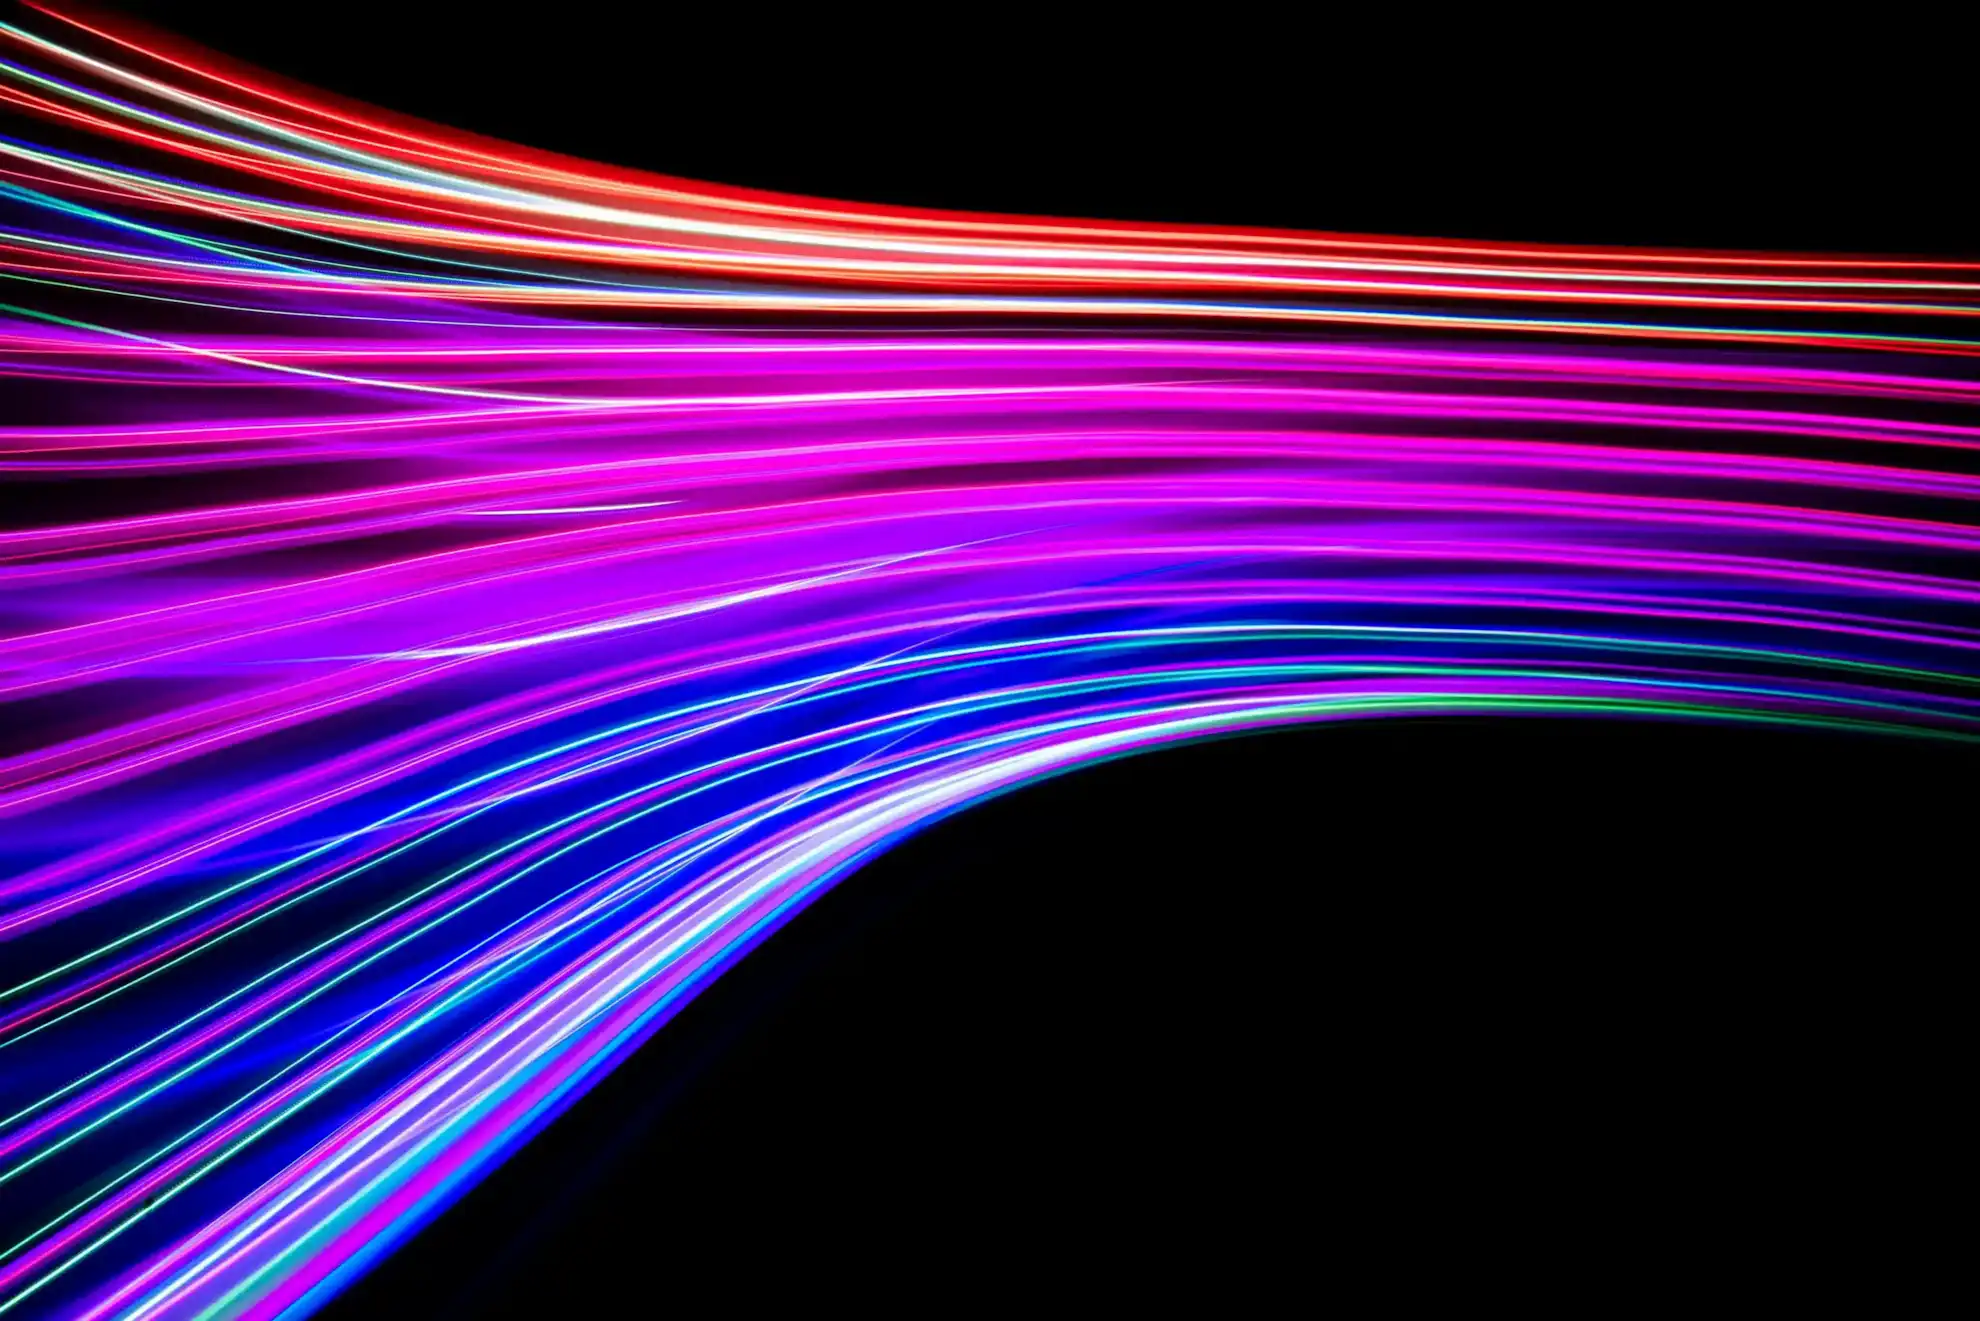
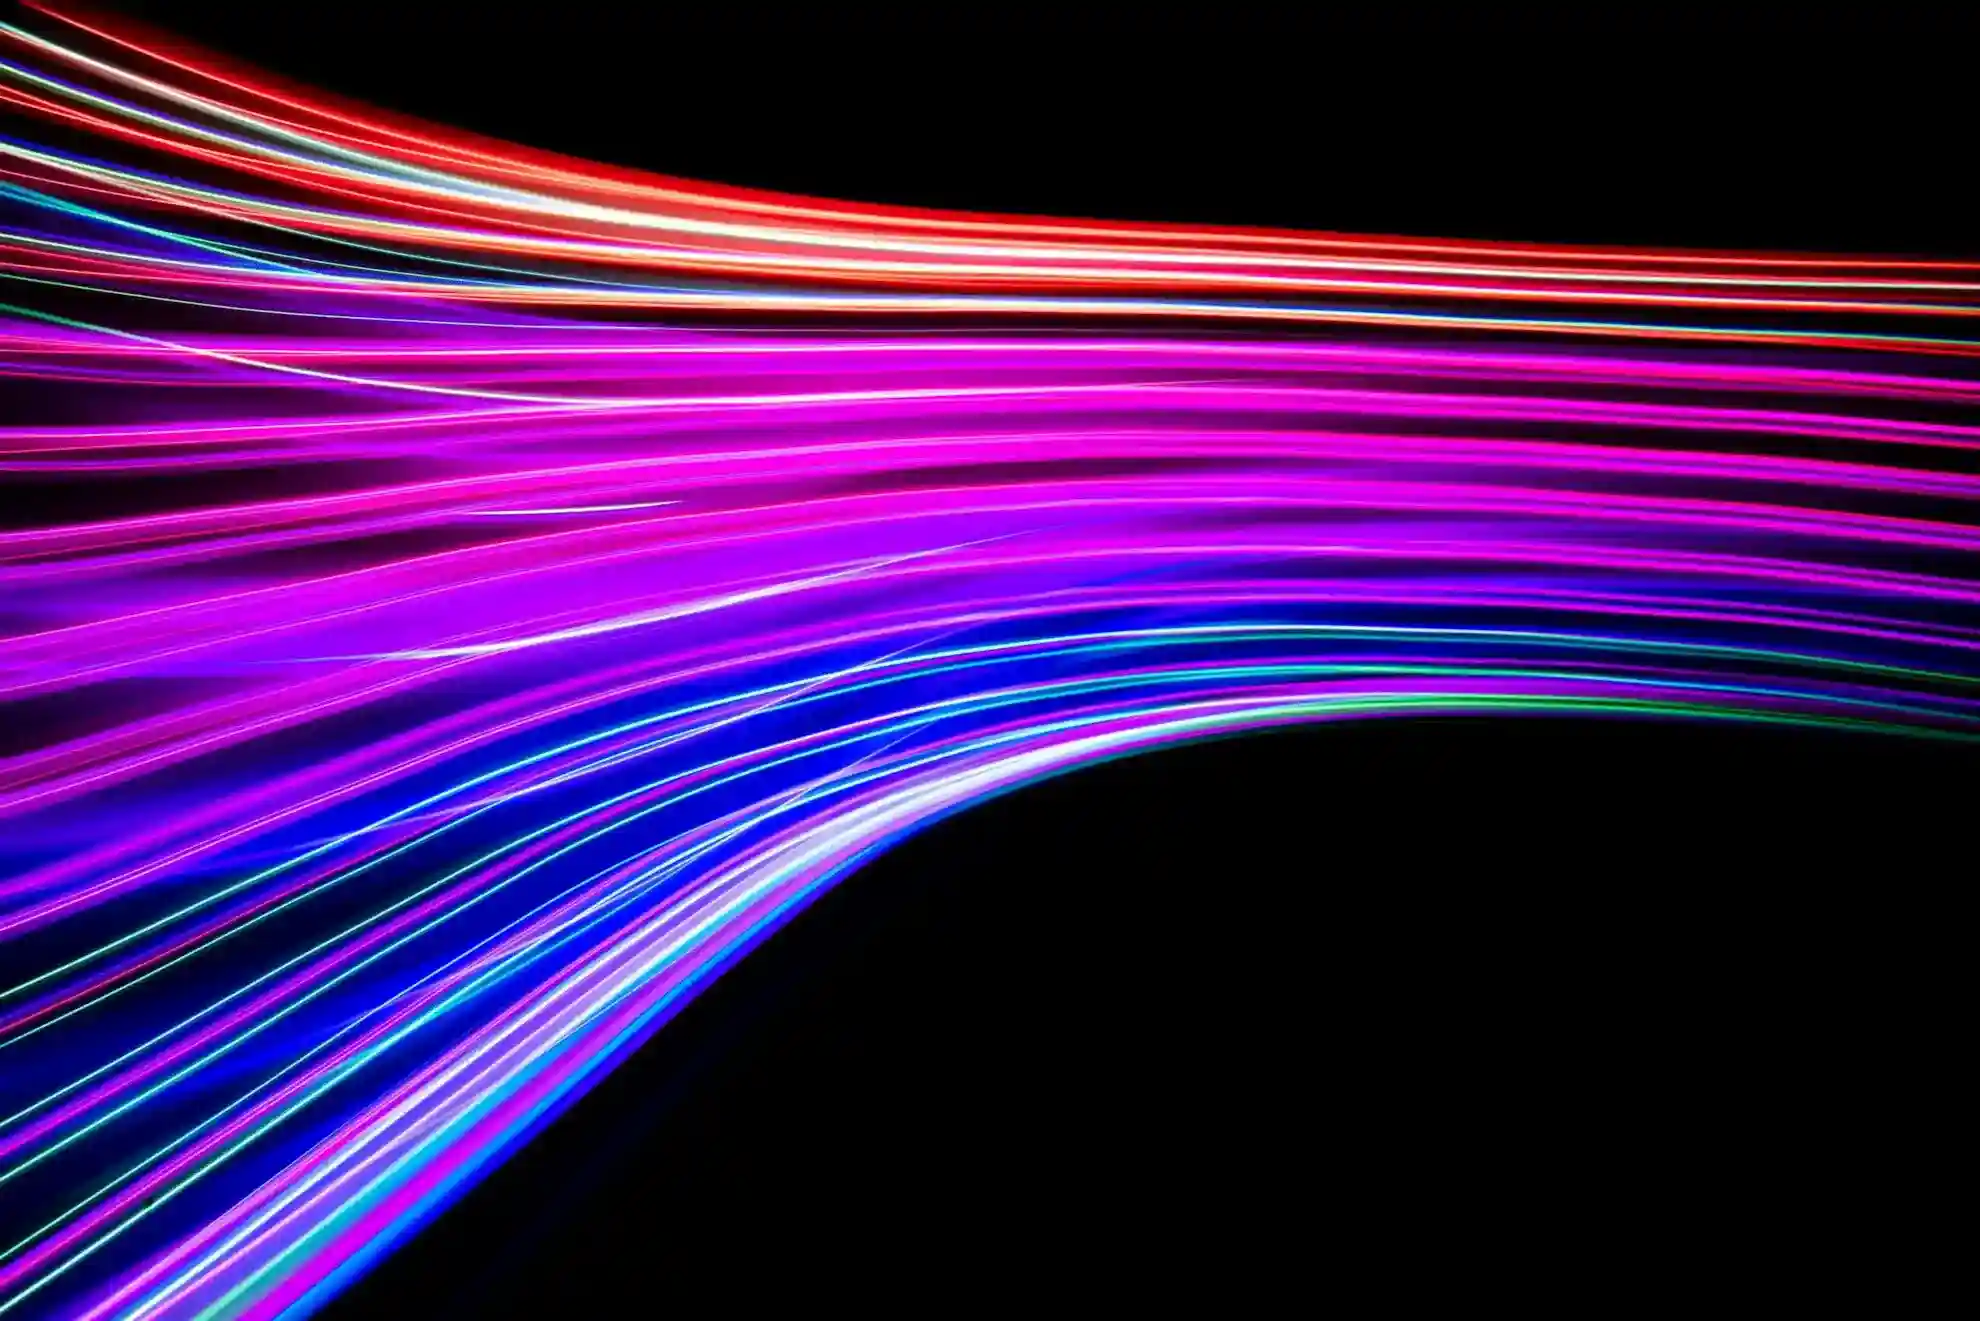
chore: webpack - ImageMin 플러그인 제거, 압축한 이미지로 변경

diff --git a/webpack.config.js b/webpack.config.js
@@ -5,7 +5,6 @@ const CopyWebpackPlugin = require('copy-webpack-plugin');
 const BundleAnalyzerPlugin = require('webpack-bundle-analyzer').BundleAnalyzerPlugin;
 const MiniCssExtractPlugin = require('mini-css-extract-plugin');
 const CssMinimizerPlugin = require('css-minimizer-webpack-plugin');
-const ImageMinimizerPlugin = require('image-minimizer-webpack-plugin');
 
 module.exports = {
   entry: './src/index.tsx',
@@ -56,17 +55,6 @@ module.exports = {
   },
   optimization: {
     minimize: true,
-    minimizer: [
-      '...',
-      new CssMinimizerPlugin(),
-      new ImageMinimizerPlugin({
-        minimizer: {
-          implementation: ImageMinimizerPlugin.imageminMinify,
-          options: {
-            plugins: [['webp', { preset: 'photo', quality: 50 }]]
-          }
-        }
-      })
-    ]
+    minimizer: ['...', new CssMinimizerPlugin()]
   }
 };
